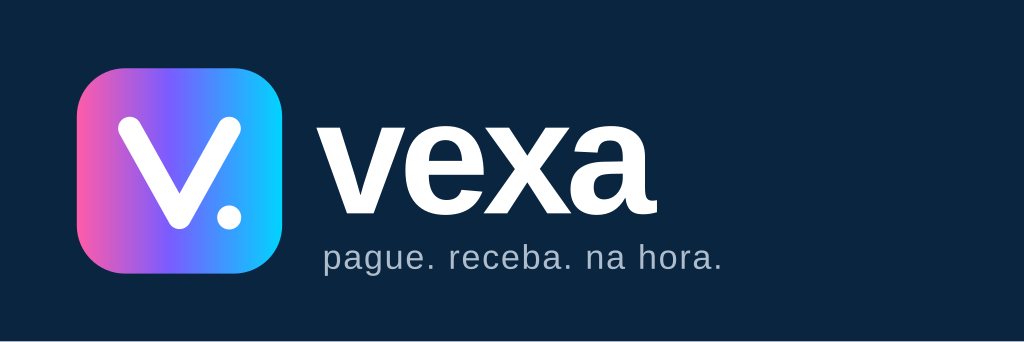
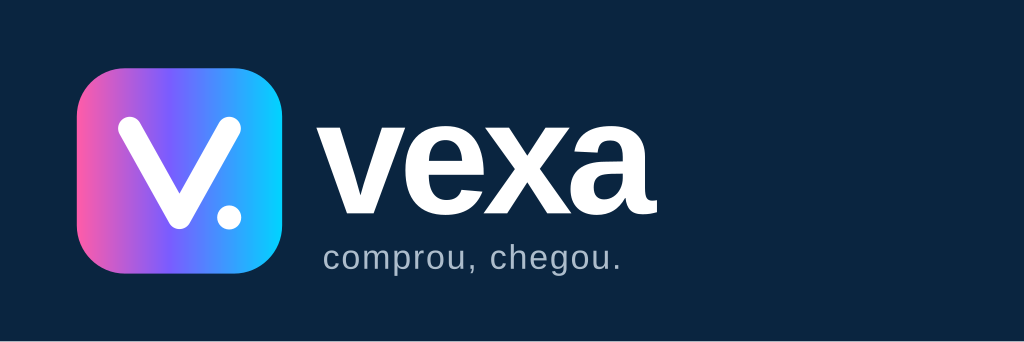
Slogan: comprou, chegou.
Claude-Session: https://claude.ai/code/session_01MrJ7BWAMHEtuMphkARskX6

Changed region(s): [[0.3125, 0.731, 0.7188, 0.8187]]

diff --git a/README.md b/README.md
@@ -1,4 +1,4 @@
-# ◆ VEXA — pague. receba. na hora.
+# ◆ VEXA — comprou, chegou.
 
 Loja automática no Telegram: catálogo em botões, pagamento **Binance Pay**, confirmação e **entrega automática**, carteira com saldo, garantia/tickets e painel admin por comandos.
 
